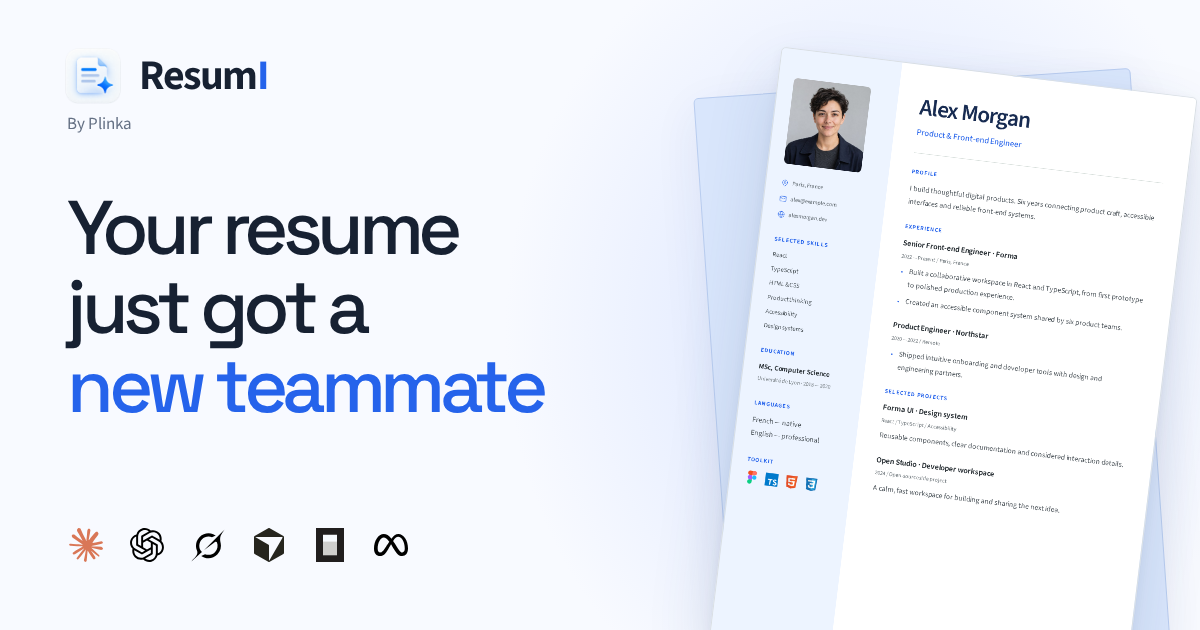
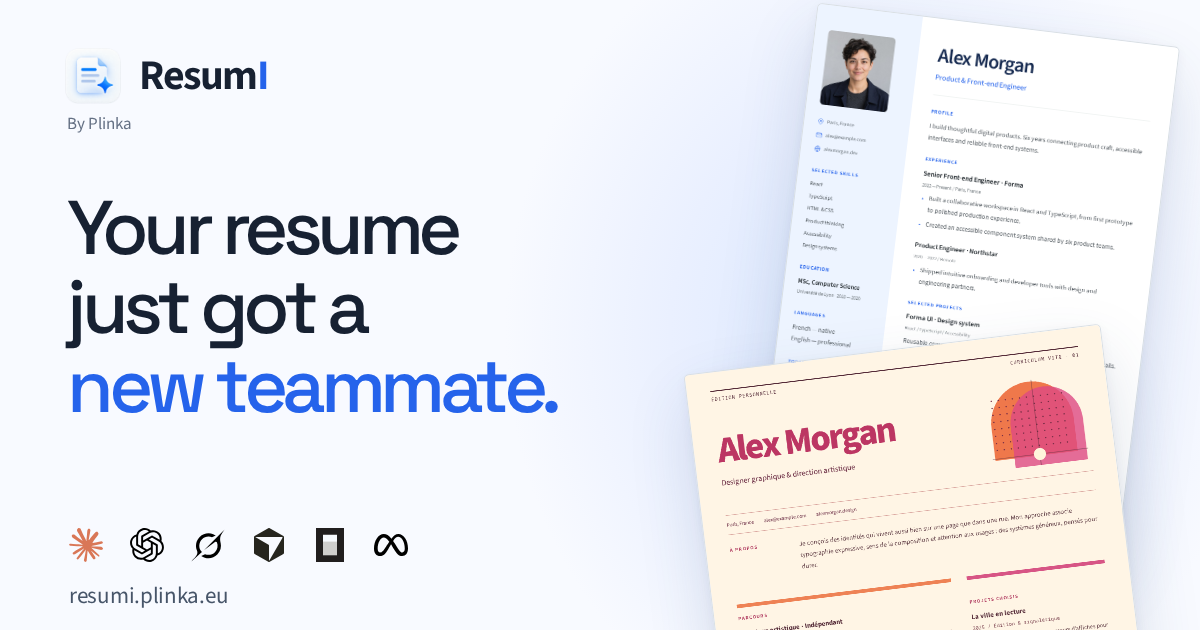
Refine the social preview with stacked resumes and site URL

Changed region(s): [[0.555, 0.0302, 0.9867, 1.0], [0.0617, 0.9349, 0.185, 0.9651], [0.4317, 0.6333, 0.4625, 0.6635]]

diff --git a/scripts/build-og-image.ts b/scripts/build-og-image.ts
@@ -2,7 +2,10 @@ import { createHash } from "node:crypto";
 import { mkdir } from "node:fs/promises";
 import { chromium } from "@playwright/test";
 import { resumeCss } from "../packages/cv/src/index";
-import { socialResume } from "../assets/ssr-image/resume";
+import {
+  socialResume,
+  socialSecondaryResume,
+} from "../assets/ssr-image/resume";
 
 // This build reads only the shipped, fictional Alex Morgan template and public
 // brand assets. No workspace resume, browser profile or remote service is used.
@@ -37,6 +40,7 @@ const files = new Map(
     "index.html",
     "styles.css",
     "assets/resume.png",
+    "assets/resume-secondary.png",
     ...Object.keys(sources).map((name) => `assets/${name}`),
   ].map((name) => [`/${name}`, Bun.file(new URL(name, directory))]),
 );
@@ -61,18 +65,23 @@ try {
   const sourceSans = Buffer.from(
     await Bun.file(new URL("source-sans-3.woff2", assets)).arrayBuffer(),
   ).toString("base64");
-  const resume = socialResume(`data:font/woff2;base64,${sourceSans}`);
-  await page.setContent(
-    `<!doctype html><html><head><meta charset="utf-8"><style>${resumeCss}body{margin:0}.resume{margin:0}</style></head><body>${resume}</body></html>`,
-  );
-  await page.evaluate(async () => {
-    await document.fonts.ready;
-    await Promise.all([...document.images].map((image) => image.decode()));
-  });
-  await page.locator(".resume.cv-sheet").screenshot({
-    path: new URL("resume.png", assets).pathname,
-    animations: "disabled",
-  });
+  const font = `data:font/woff2;base64,${sourceSans}`;
+  for (const [name, resume] of [
+    ["resume.png", socialResume(font)],
+    ["resume-secondary.png", socialSecondaryResume(font)],
+  ] as const) {
+    await page.setContent(
+      `<!doctype html><html><head><meta charset="utf-8"><style>${resumeCss}body{margin:0}.resume{margin:0}</style></head><body>${resume}</body></html>`,
+    );
+    await page.evaluate(async () => {
+      await document.fonts.ready;
+      await Promise.all([...document.images].map((image) => image.decode()));
+    });
+    await page.locator(".resume.cv-sheet").screenshot({
+      path: new URL(name, assets).pathname,
+      animations: "disabled",
+    });
+  }
   await page.setViewportSize({ width: 1200, height: 630 });
   await page.goto(server.url.toString());
   await page.evaluate(async () => {

diff --git a/assets/ssr-image/styles.css b/assets/ssr-image/styles.css
@@ -85,6 +85,16 @@ h1 {
 h1 > span {
   color: #2563eb;
 }
+.website {
+  position: absolute;
+  left: 69px;
+  bottom: 23px;
+  color: #475569;
+  font-size: 23px;
+  line-height: 1;
+  letter-spacing: -0.3px;
+  text-decoration: none;
+}
 .agents {
   position: absolute;
   left: 69px;
@@ -106,29 +116,28 @@ h1 > span {
 }
 .resume-stack {
   position: absolute;
-  width: 419px;
-  height: 593px;
-  top: 70px;
-  left: 744px;
-  transform: rotate(7deg);
-}
-.back-sheet {
-  position: absolute;
-  inset: 15px 11px -3px -30px;
-  border: 1px solid #b8ccef;
-  border-radius: 5px;
-  background: #d9e6fc;
-  transform: rotate(-11deg);
-  box-shadow: 0 14px 48px #253d6c12;
+  inset: 0 0 0 690px;
 }
 .resume {
-  position: relative;
+  position: absolute;
   display: block;
-  width: 419px;
   height: auto;
   border: 1px solid #d9dfe4;
   border-radius: 5px;
   box-shadow:
     0 28px 65px #344d7627,
     0 3px 12px #2133510c;
+}
+.resume-primary {
+  top: 23px;
+  left: 95px;
+  width: 365px;
+  transform: rotate(7deg);
+}
+.resume-secondary {
+  z-index: 1;
+  top: 347px;
+  left: 28px;
+  width: 420px;
+  transform: rotate(-7deg);
 }

diff --git a/assets/ssr-image/index.html b/assets/ssr-image/index.html
@@ -16,7 +16,8 @@
         </div>
         <p class="attribution">By Plinka</p>
       </header>
-      <h1>Your resume<br />just got a<br /><span>new teammate</span></h1>
+      <h1>Your resume<br />just got a<br /><span>new teammate.</span></h1>
+      <a class="website" href="https://resumi.plinka.eu">resumi.plinka.eu</a>
       <div class="agents" aria-label="AI coding tools">
         <img src="assets/claude.svg" alt="Claude" />
         <img src="assets/openai.svg" alt="Codex / ChatGPT" />
@@ -26,10 +27,16 @@
         <img src="assets/meta.svg" alt="Muse Code" />
       </div>
       <div class="resume-stack" aria-hidden="true">
-        <div class="back-sheet"></div>
         <img
-          class="resume"
+          class="resume resume-primary"
           src="assets/resume.png"
+          alt=""
+          width="794"
+          height="1123"
+        />
+        <img
+          class="resume resume-secondary"
+          src="assets/resume-secondary.png"
           alt=""
           width="794"
           height="1123"

diff --git a/assets/ssr-image/resume.ts b/assets/ssr-image/resume.ts
@@ -3,8 +3,20 @@ import { renderToStaticMarkup } from "react-dom/server";
 import { createResume } from "../../packages/cv/src/index";
 import { resumeData } from "../../packages/cv/src/source/starter";
 import Resume from "../../packages/cv/src/templates/CodeResume";
+import CreativeResume from "../../packages/cv/src/templates/CreativeResume";
 import assets from "../../packages/cv/src/templates/assets.generated.json";
 import type { ResumeData } from "../../packages/cv/src/templates/types";
+
+export function socialSecondaryResume(font: string): string {
+  const sample = resumeData(
+    createResume("social-preview-secondary", "react-risograph"),
+  );
+  return renderToStaticMarkup(
+    createElement<{ data?: ResumeData }>(CreativeResume, {
+      data: { ...sample, font },
+    }),
+  );
+}
 
 /** Public sample portrait and template; every career detail below is fictional. */
 export function socialResume(font: string): string {

diff --git a/assets/ssr-image/README.md b/assets/ssr-image/README.md
@@ -11,10 +11,11 @@ bun scripts/build-og-image.ts
 
 The renderer copies the public ResumI tray icon and existing agent marks,
 loads the same Space Grotesk / Source Sans 3 variable fonts as the site,
-and renders the shipped `react-profile` layout using the fictional Alex Morgan
+and renders the shipped `react-profile` and `react-risograph` layouts using the fictional Alex Morgan
 sample portrait. `resume.ts` contains the original, synthetic engineering career
 and blue styling used only for this preview. Tool marks come from the public
-template assets; the catalog templates remain unchanged.
+template assets; the catalog templates remain unchanged. The two resumes are
+stacked vertically, beside the headline and `resumi.plinka.eu` address.
 It reads no personal document, browser profile or private resume.
 
 The output is `apps/web/public/og-image.png` at exactly 1200 × 630 pixels.
